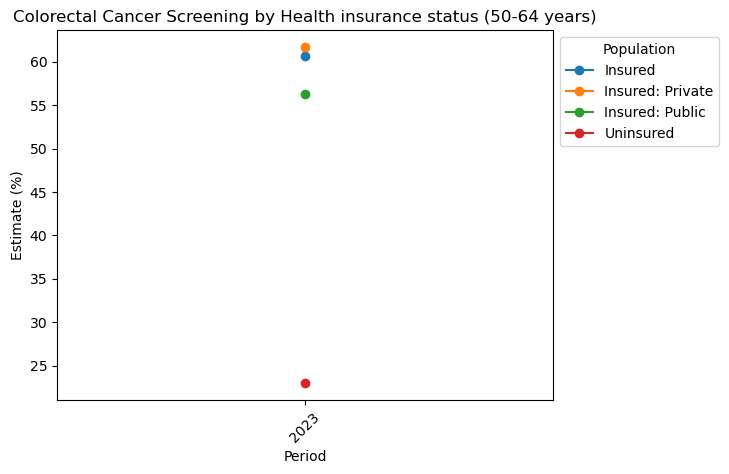
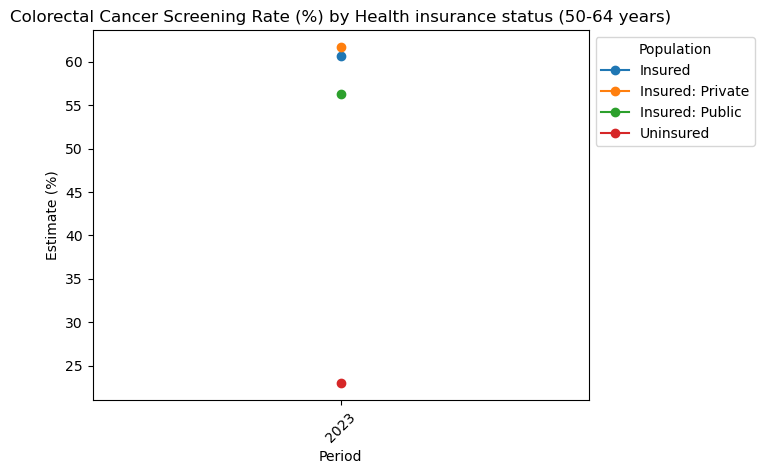
Fix baseline for odds ratios (#8)

diff --git a/src/utils/plotting_utils.py b/src/utils/plotting_utils.py
@@ -83,7 +83,7 @@ def plot_nhis_survey(selected_survey: str, selected_demographic: str, survey_df:
 
         return survey_df
 
-def plot_odds_ratio(model: 'model', care: str, indicator: str) -> pd.DataFrame:
+def plot_odds_ratio(model: 'model', care: str, analysis: str) -> pd.DataFrame:
     """
     Create and save an error bar plot of odds ratios.
     """
@@ -113,7 +113,7 @@ def plot_odds_ratio(model: 'model', care: str, indicator: str) -> pd.DataFrame:
     # Clean long statsmodels categorical labels
     plot_df['label'] = (
         plot_df['term']
-        .str.replace(rf'C\({indicator}\)\[T\.', '', regex=True)
+        .str.replace(rf'^C.+T\.', '', regex=True)
         .str.replace(r'\]$', '', regex=True)
     )
 
@@ -146,16 +146,32 @@ def plot_odds_ratio(model: 'model', care: str, indicator: str) -> pd.DataFrame:
 
         # Set the odds ratio values above the points
         for i, odds_ratio in enumerate(plot_df['odds_ratio']):
-            plt.text(odds_ratio, i, f'{odds_ratio:.3f}', va='bottom', ha='center', fontsize=10, color='black')
+            plt.annotate(
+                f"{odds_ratio:.3f}",
+                xy=(odds_ratio, i),
+                xytext=(0, 4),
+                textcoords="offset points",
+                ha="center",
+                va="bottom",
+                fontsize=8,
+                color="black"
+            )
 
         # Set odds ratio 1 indicator
         plt.axvline(1, linestyle='--', linewidth=1)
 
         # Set labels
         plt.suptitle(f'Target: {care} Care')
-        plt.title('Odds Ratios with 95% Confidence Intervals', fontsize=10)
-        plt.xlabel('Odds Ratio')
-        plt.ylabel('Indicator')
+        baseline = ANALYSIS_CONFIG[care]['Analysis'][analysis]['base_category']
+        plt.title(f'Baseline: {baseline}', fontsize=10)
+        plt.xlabel('Odds Ratios with 95% Confidence Intervals')
+        plt.ylabel('Indicators')
+        plt.text(
+            0.5, -0.15,
+            '(Only statistically significant associations (p <= 0.05) are shown)',
+            ha='center',
+            transform=plt.gca().transAxes
+        )
 
         # Get the current figure
         fig = plt.gcf()
@@ -163,18 +179,13 @@ def plot_odds_ratio(model: 'model', care: str, indicator: str) -> pd.DataFrame:
         # Display the plot in Streamlit
         st.pyplot(fig)
 
+        # Format the survey name and demographic for use in the plot filename
+        care_name = care.replace(' ', '_').lower()
+        analysis_name = analysis.replace(' ', '_').lower()
+
+
         # Save fig as png
-        plot_path = f'src/figures/{care.lower()}_{indicator}_odds_ratios.png'
+        plot_path = f'src/figures/{care_name}_{analysis_name}_odds_ratios.png'
         fig.savefig(plot_path, bbox_inches='tight')
 
         return plot_df
-
-def display_plot(df: pd.DataFrame, plot_path: str) -> None:
-    """
-    If the dataframe is not empty, display the odds ratio plot.
-    """
-    if df.empty:
-        st.warning('No statistically significant associations found.')
-
-    else:
-        st.image(plot_path)

diff --git a/src/analysis/analysis.py b/src/analysis/analysis.py
@@ -1,4 +1,3 @@
-import pandas as pd
 import statsmodels.formula.api as smf
 import streamlit as st
 
@@ -8,11 +7,13 @@ from utils.plotting_utils import plot_odds_ratio
 
 CONN = st.connection("postgresql", type="sql")
 
-def analysis(care: str, indicator: str) -> None:
+def analysis(selected_care: str, selected_analysis: str) -> None:
     """
     Perform analysis on the relationship between given care and given indicator.
     """
-    screening_list = ANALYSIS_CONFIG[care]['Screenings']
+    # Format query based on the selected care and analysis
+    screening_list = ANALYSIS_CONFIG[selected_care]['Screenings']
+    indicator = ANALYSIS_CONFIG[selected_care]['Analysis'][selected_analysis]['indicator']
 
     query = f"""SELECT
                     {', '.join(screening_list)},
@@ -34,14 +35,18 @@ def analysis(care: str, indicator: str) -> None:
         .astype(int)
     )
 
+    # Format the formula for logistic regression, using the base category if specified in the config
+    base_category = ANALYSIS_CONFIG[selected_care]['Analysis'][selected_analysis].get('base_category')
+    formula = f'any_screenings ~ C({indicator}, Treatment(reference=\'{base_category}\'))'
+
     # Fit a classification logistic regression model
     model = smf.logit(
-        formula=f'any_screenings ~ C({indicator})',
+        formula=formula,
         data=df
     ).fit()
 
     # Plot the odds ratio
-    plot_df = plot_odds_ratio(model, care, indicator)
+    plot_df = plot_odds_ratio(model, selected_care, selected_analysis)
 
     st.dataframe(
             plot_df[["label", "odds_ratio", "p_value"]]

diff --git a/src/config/analysis_config.py b/src/config/analysis_config.py
@@ -5,18 +5,22 @@ ANALYSIS_CONFIG = {
         'Analysis': {
             'Insurance Type': {
                 'indicator': 'primins2',
+                'base_category': 'No coverage of any type',
                 'header': 'Is primary insurance type significantly associated with the likelihood of receiving colorectal cancer screening?'
             },
             'Income Level': {
                 'indicator': 'income3',
+                'base_category': 'Less than $10,000',
                 'header': 'Is income level significantly associated with the likelihood of receiving colorectal cancer screening?'
             },
             'Sex': {
                 'indicator': 'sex3',
+                'base_category': 'Female',
                 'header': 'Is sex significantly associated with the likelihood of receiving colorectal cancer screening?'
             },
             'Education Level': {
                 'indicator': 'educa',
+                'base_category': 'Never attended school or only kindergarten',
                 'header': 'Is education level significantly associated with the likelihood of receiving colorectal cancer screening?'
             }
         }
@@ -27,18 +31,22 @@ ANALYSIS_CONFIG = {
         'Analysis': {
             'Insurance Type': {
                 'indicator': 'primins2',
+                'base_category': 'No coverage of any type',
             'header': 'Is primary insurance type significantly associated with the likelihood of receiving womens wellness screening?'
             },
             'Income Level': {
                 'indicator': 'income3',
+                'base_category': 'Less than $10,000',
                 'header': 'Is income level significantly associated with the likelihood of receiving womens wellness screening?'
             },
             'Marital Status': {
                 'indicator': 'marital',
+                'base_category': 'Never married',
                 'header': 'Is marital status significantly associated with the likelihood of receiving womens wellness screening?'
             },
             'Education Level': {
                 'indicator': 'educa',
+                'base_category': 'Never attended school or only kindergarten',
                 'header': 'Is education level significantly associated with the likelihood of receiving womens wellness screening?'
             }
         }

diff --git a/src/pages/5_Analysis.py b/src/pages/5_Analysis.py
@@ -3,7 +3,6 @@ import streamlit as st
 from analysis.analysis import analysis
 from config.analysis_config import ANALYSIS_CONFIG
 from utils.custom_visuals import rainbow_divider
-from utils.plotting_utils import display_plot
 
 
 def populate_sidebar() -> tuple[str, str]:
@@ -50,8 +49,8 @@ def populate_body(selected_care: str, selected_analysis: str) -> None:
         st.text(care_config['Description'])
 
         analysis(
-            care=selected_care,
-            indicator=care_config['Analysis'][selected_analysis]['indicator']
+            selected_care,
+            selected_analysis
         )
 
 def main() -> None: